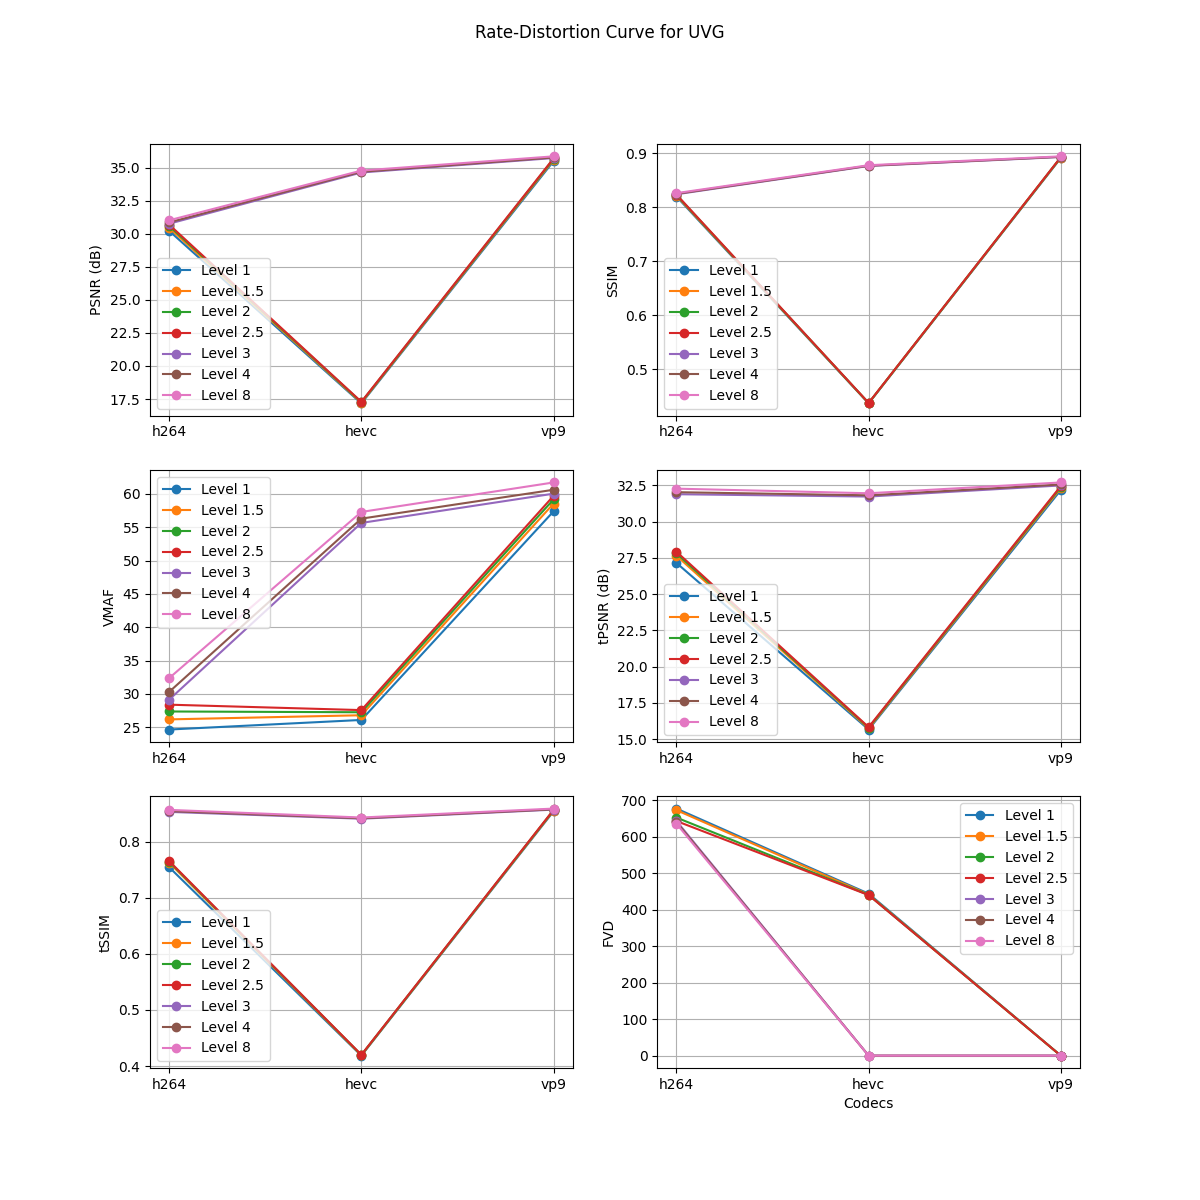
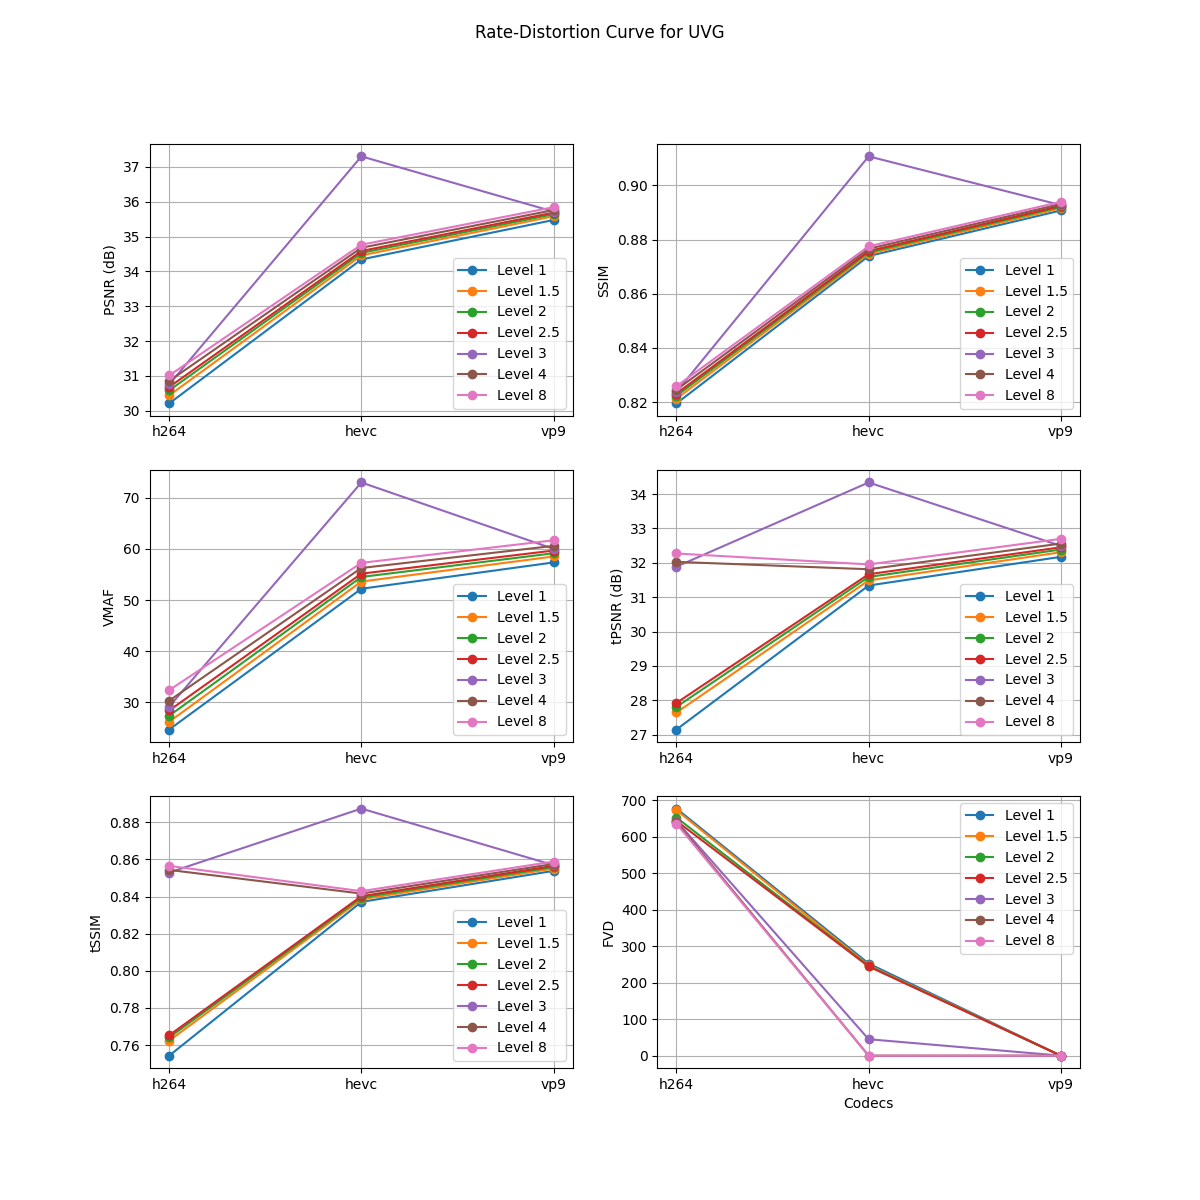
made visuals

diff --git a/visualizations/visualize_results_radar.py b/visualizations/visualize_results_radar.py
@@ -4,7 +4,7 @@ import json
 import numpy as np
 import matplotlib.pyplot as plt
 
-datasets = ["UVG", "HEVC_CLASS_B"]
+datasets = ["HEVC_CLASS_B"]
 levels = [1,1.5,2,2.5,3,4,8]
 codecs = ["h264", "hevc", "vp9"]
 
@@ -106,12 +106,12 @@ def visualize_results_multi_metric_radar_avg_of_videos(output_dir="visualization
 
                 for video_name, video_data in video_results.items():
                     print(f"Processing {dataset} {codec} level {level} video {video_name}")
-                    results_summary[codec]["PSNR"].append(video_data["psnr"])
-                    results_summary[codec]["SSIM"].append(video_data["ssim"])
-                    results_summary[codec]["VMAF"].append(video_data["vmaf"])
-                    results_summary[codec]["tPSNR"].append(video_data["tpsnr"])
-                    results_summary[codec]["tSSIM"].append(video_data["tssim"])
-                    results_summary[codec]["FVD"].append(video_data["fvd"])
+                    results_summary[codec]["PSNR"].append(video_data["psnr"] if "psnr" in video_data else 0)
+                    results_summary[codec]["SSIM"].append(video_data["ssim"] if "ssim" in video_data else 0)
+                    results_summary[codec]["VMAF"].append(video_data["vmaf"] if "vmaf" in video_data else 0)
+                    results_summary[codec]["tPSNR"].append(video_data["tpsnr"] if "tpsnr" in video_data else 0)
+                    results_summary[codec]["tSSIM"].append(video_data["tssim"] if "tssim" in video_data else 0)
+                    results_summary[codec]["FVD"].append(video_data["fvd"] if "fvd" in video_data else 0)
         
         # Average metrics per codec (original values)
         avg_metrics = {}
@@ -169,3 +169,8 @@ def visualize_results_multi_metric_radar_avg_of_videos(output_dir="visualization
         os.makedirs(output_dir, exist_ok=True)
         plt.savefig(os.path.join(output_dir, f"{dataset}_radar_chart_metrics.png"))
         plt.close()
+
+if __name__ == "__main__":
+    visualize_results_by_video_radar_plot()
+    visualize_results_multi_metric_radar_avg_of_videos()
+    pass

diff --git a/visualizations/visualize_results_line.py b/visualizations/visualize_results_line.py
@@ -185,3 +185,8 @@ def visualize_results_by_level(output_dir="visualizations"):
         plt.xlabel("Codecs")
         plt.savefig(os.path.join(output_dir, f"{dataset}_rd_curve_by_level.png"))
         plt.close()
+
+if __name__ == "__main__":
+    visualize_results_by_codec()
+    visualize_results_by_level()
+    pass

diff --git a/visualizations/visualize_results.py b/visualizations/visualize_results.py
@@ -5,7 +5,7 @@ import json
 import pandas as pd
 import seaborn as sns
 
-datasets = ["UVG"]
+datasets = ["HEVC_CLASS_B"]
 levels = [1,1.5, 2, 2.5, 3,4,8]
 codecs = ["h264", "hevc", "vp9"]
 
